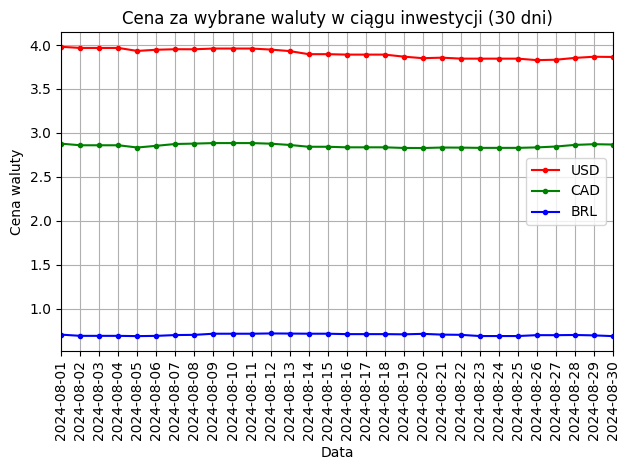
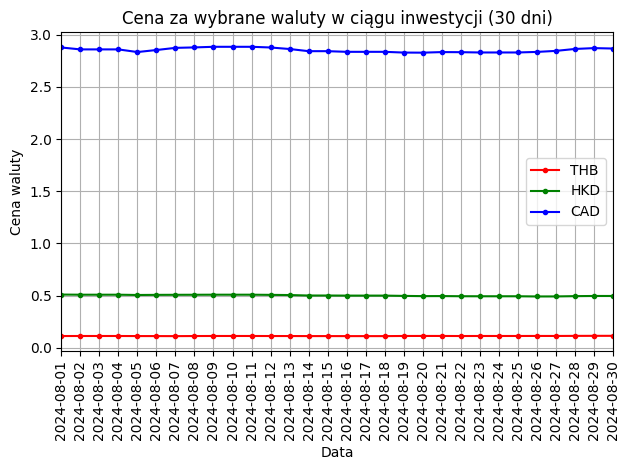
Added more charts into Investment class and informations with charts into users view.

diff --git a/templates/investmentResult.html b/templates/investmentResult.html
@@ -6,19 +6,59 @@
         <link href="https://fonts.googleapis.com/icon?family=Material+Icons" rel="stylesheet">
         <link type="text/css" rel="stylesheet" href="{{ url_for('static', filename='node_modules/materialize-css/dist/css/materialize.min.css') }}" media="screen,projection"/>
         <link rel="icon" href="{{ url_for('static', filename='favicon.ico') }}">
-        <title>Zadanie rekrutacyjne ING</title>
+        <title>inwestycja</title>
     </head>
     <body>
-        <div class="row center"></div>
-            <h2>Analiza inwestycji 1000zł w trzy waluty na 30 dni</h2>
-            <h5>wypłacona kwota w PLN po 30 dniach: {{ last_total }}</h5>
+        <div class="navbar-fixed">
+            <nav>
+                <div class="nav-wrapper">
+                    <a href="/" class="brand-logo center">Analiza inwestycji 1000zł w trzy waluty na 30 dni</a>
+                </div>
+            </nav>
         </div>
-        <div class="row">
-            <img style="width: 50%;" src="{{ url_for('static', filename='graphs/currency_rates.png')}}" alt="">
+        <div class="row center">
+            <div class="col s6 offset-s3">
+
+                <h6>1000 PLN zainwestowane w {{curr_first}} ({{percentage_first}}%), {{curr_second}} ({{percentage_second}}%), {{curr_third}} ({{percentage_third}}%) wypłacone po 30 dniach dało: {{ last_total }} PLN.
+                    <br>Bilans zysków/strat: {{ bilance }} PLN.</h6>
+                <h6>Powinieneś zakończyć inwestycję w dniu {{ best_date }}. Twój portfel byłby warty wtedy {{ highest_value }} PLN. 
+                    <br>Bilans zysków/strat byłby równy: {{ best_bilance }} PLN.</h6>
+            </div> 
         </div>
-        <div class="row">
-            <img style="width: 50%;" src="{{ url_for('static', filename='graphs/investment_in_pln.png')}}" alt="">
-        </div>
+        <h6 style="margin-left: 2%;">Wykresy:</h6>
+        <ul class="collapsible popout">
+            <li>
+                <div class="collapsible-header"><i class="material-icons">show_chart</i>Przebieg inwestycji w PLN w ciągu inwestycji (30 dni)</div>
+                <div class="collapsible-body center-align">
+                    <img style="width: 60%;" src="{{ url_for('static', filename='graphs/investment_in_pln.png')}}" alt="">                    
+                </div>
+            </li>
+            <li>
+                <div class="collapsible-header"><i class="material-icons">show_chart</i>Cena za wybrane waluty w ciągu inwestycji (30 dni)</div>
+                <div class="collapsible-body center-align">
+                    <img style="width: 60%;" src="{{ url_for('static', filename='graphs/currency_rates.png')}}" alt="">
+                </div>
+            </li>
+            <li>
+                <div class="collapsible-header"><i class="material-icons">show_chart</i>Procentowy udział walut w ciągu inwestycji (30 dni)</div>
+                <div class="collapsible-body center-align">
+                    <img style="width: 60%;" src="{{ url_for('static', filename='graphs/percentage_allocation_chart.png')}}" alt="">
+                </div>
+            </li>
+            <li>
+                <div class="collapsible-header"><i class="material-icons">pie_chart</i>Procentowy podział walut na początku inwestycji</div>
+                <div class="collapsible-body center-align">
+                    <img style="width: 60%;" src="{{ url_for('static', filename='graphs/pie_chart_start.png')}}" alt="">
+                </div>
+            </li>
+            <li>
+                <div class="collapsible-header"><i class="material-icons">pie_chart</i>Procentowy podział walut na koniec inwestycji</div>
+                <div class="collapsible-body center-align">
+                    <img style="width: 60%;" src="{{ url_for('static', filename='graphs/pie_chart_end.png')}}" alt="">
+                </div>
+            </li>
+        </ul>
+        
         
 
         <script type="text/javascript" src="{{ url_for('static', filename='js/script.js') }}"></script>

diff --git a/templates/index.html b/templates/index.html
@@ -6,12 +6,17 @@
         <link href="https://fonts.googleapis.com/icon?family=Material+Icons" rel="stylesheet">
         <link type="text/css" rel="stylesheet" href="{{ url_for('static', filename='node_modules/materialize-css/dist/css/materialize.min.css') }}" media="screen,projection"/>
         <link rel="icon" href="{{ url_for('static', filename='favicon.ico') }}">
-        <title>Zadanie rekrutacyjne ING</title>
+        <title>inewstycja</title>
     </head>
     <body>
-        <div class="row center">
-            <h2>Analiza inwestycji 1000zł w trzy waluty na 30 dni</h2>
+        <div class="navbar-fixed">
+            <nav>
+                <div class="nav-wrapper">
+                    <a href="/" class="brand-logo center">Analiza inwestycji 1000zł w trzy waluty na 30 dni</a>
+                </div>
+            </nav>
         </div>
+        <div class="row"></div>
         <form action="/analyze" method="POST" onsubmit="return validateForm()">
             <div class="row">
                 <div class="input-field col s4 offset-s3">
@@ -62,6 +67,7 @@
                 <div class="input-field col s6 offset-s3">
                     <input id="start_date" type="text" name="start_date" class="datepicker" autocomplete="off">
                     <label for="start_date">Data rozpoczęcia inwestycji</label>
+                    <span class="grey-text">Maksymalna data do wybory - miesiąc wstecz, aby wyświetlić poprawne dane</span><br>
                     <span class="grey-text">System automatycznie obliczy datę końca inwestycji (30 dni)</span>
                 </div>
             </div>

diff --git a/static/js/script.js b/static/js/script.js
@@ -1,6 +1,6 @@
 document.addEventListener('DOMContentLoaded', function() {
-    let elems = document.querySelectorAll('select');
-    M.FormSelect.init(elems);
+    let selectElems = document.querySelectorAll('select');
+    let selectInstances = M.FormSelect.init(selectElems);
     
 
     let currYear = new Date().getFullYear();
@@ -14,6 +14,12 @@ document.addEventListener('DOMContentLoaded', function() {
         maxDate: new Date(currYear, currMonth-1, currDay),
         yearRange: [2020, currYear]
     });
+
+    let imageElems = document.querySelectorAll('.materialboxed');
+    let imageInstances = M.Materialbox.init(imageElems);
+
+    let collapibleElems = document.querySelectorAll('.collapsible');
+    let collapsibleInstances = M.Collapsible.init(collapibleElems);
 });
 
 function validateForm() {

diff --git a/investment.py b/investment.py
@@ -14,6 +14,11 @@ class Investment():
         self.second_currency_dict = currency_dict.get('second')
         self.third_currency_dict = currency_dict.get('third')
         self.end_date = (datetime.strptime(self.start_date, '%Y-%m-%d') + timedelta(days=29)).strftime('%Y-%m-%d') #days=29 because start date + 29days = 30 days
+        self.graph_directory = os.path.join('static', 'graphs') #set path to graphs
+        self.value_for_first = []
+        self.value_for_second = []
+        self.value_for_third = []
+        self.total_value = []
 
     def _get_currency_rates(self):
         #first currency
@@ -52,9 +57,49 @@ class Investment():
 
         return dates, first_rate_value, second_rate_value, third_rate_value
 
-
     def analyze_investment(self):
         ...
+
+    def draw_start_pie(self, start_values):
+        currencies = list(start_values.keys())
+        values = list(start_values.values())
+        
+        self._configure_pie_chart('Procentowy podział walut na początku inwestycji', values, currencies, 'pie_chart_start.png')
+
+    def draw_end_pie(self):
+        last_total = round(self.total_value[-1], 2)
+        last_first_value = round(self.value_for_first[-1], 2)
+        last_second_value = round(self.value_for_second[-1], 2)
+        last_third_value = round(self.value_for_third[-1], 2)
+
+        first_percentage = (last_first_value / last_total) * 100
+        second_percentage = (last_second_value / last_total) * 100
+        third_percentage = (last_third_value / last_total) * 100
+
+        first_percentage = round(first_percentage, 4)
+        second_percentage = round(second_percentage, 4)
+        third_percentage = round(third_percentage, 4)
+
+        currencies = [self.first_currency_dict.get('currency'), self.second_currency_dict.get('currency'), self.third_currency_dict.get('currency')]
+        values = [first_percentage, second_percentage, third_percentage]
+
+        self._configure_pie_chart('Procentowy podział walut na koniec inwestycji', values, currencies, 'pie_chart_end.png')
+
+    def when_to_leave(self):
+        dates, _, _, _ = self._get_dates_and_mid()
+
+        best_date = None
+        highest_value = 0
+
+        for date, value in zip(dates, self.total_value):
+            if value > highest_value:
+                highest_value = value
+                best_date = date
+
+        highest_value = round(highest_value, 2)
+        best_date = best_date.strftime('%Y-%m-%d')
+
+        return highest_value, best_date
 
     def draw_investment_pln(self):
         first_percent, second_percent, third_percent = self._get_currency_percentage()
@@ -65,65 +110,42 @@ class Investment():
 
         dates, first_rate_values, second_rate_values, third_rate_values = self._get_dates_and_mid()
 
-        #print(first_rate_values[0]) #mid from first day
-
         first_bought = first_investment_value / first_rate_values[0] 
         second_bought = second_investment_value / second_rate_values[0]
         third_bought = third_investment_value / third_rate_values[0]
-
-        value_for_first = []
-        value_for_second = []
-        value_for_third = []
 
         for first_rate, second_rate, third_rate in zip(first_rate_values, second_rate_values, third_rate_values):
             first_to_pln = first_bought * first_rate
             second_to_pln = second_bought * second_rate
             third_to_pln = third_bought * third_rate
 
-            value_for_first.append(first_to_pln)
-            value_for_second.append(second_to_pln)
-            value_for_third.append(third_to_pln)
+            self.value_for_first.append(first_to_pln)
+            self.value_for_second.append(second_to_pln)
+            self.value_for_third.append(third_to_pln)
 
-        total_value = []
+        for value_first, value_second, value_third in zip(self.value_for_first, self.value_for_second, self.value_for_third):
+            self.total_value.append(value_first + value_second + value_third)
 
-        for value_first, value_second, value_third in zip(value_for_first, value_for_second, value_for_third):
-            total_value.append(value_first + value_second + value_third)
+        plt.plot(dates, self.value_for_first, marker ='.', linestyle = '-', color = 'r', label=f"{self.first_currency_dict.get('currency')} {first_percent}%")
+        plt.plot(dates, self.value_for_second, marker ='.', linestyle = '-', color = 'g', label=f"{self.second_currency_dict.get('currency')} {second_percent}%")
+        plt.plot(dates, self.value_for_third, marker ='.', linestyle = '-', color = 'b', label=f"{self.third_currency_dict.get('currency')} {third_percent}%")
 
-        plt.plot(dates, value_for_first, marker='.', linestyle='-', color='r', label=f"{self.first_currency_dict.get('currency')} {first_percent}%")
-        plt.plot(dates, value_for_second, marker='.', linestyle='-', color='g', label=f"{self.second_currency_dict.get('currency')} {second_percent}%")
-        plt.plot(dates, value_for_third, marker='.', linestyle='-', color='b', label=f"{self.third_currency_dict.get('currency')} {third_percent}%")
+        self._configure_graph('przebieg inwestycji w PLN w ciągu inwestycji (30 dni)', 'Cena waluty', dates, 'investment_in_pln.png')
 
-        self._configure_graph('przebieg inwestycji w PLN w ciągu inwestycji (30 dni)', 'Cena waluty', dates)
-
-        graph_directory = os.path.join('static', 'graphs') #set path to graphs
-        if not os.path.exists(graph_directory): #if no graph dir - make one
-            os.makedirs(graph_directory)
-
-        plt.savefig(os.path.join(graph_directory, 'investment_in_pln.png'), bbox_inches='tight')
-        plt.close()
-
-        last_total = total_value[-1]
-
+        last_total = self.total_value[-1]
+        last_total = round(last_total, 2)
         return last_total
     
-
     def draw_currency_rates(self):
         dates, first_rate_value, second_rate_value, third_rate_value = self._get_dates_and_mid()
 
-        plt.plot(dates, first_rate_value, marker='.', linestyle='-', color='r', label=self.first_currency_dict.get('currency'))
-        plt.plot(dates, second_rate_value, marker='.', linestyle='-', color='g', label=self.second_currency_dict.get('currency'))
-        plt.plot(dates, third_rate_value, marker='.', linestyle='-', color='b', label=self.third_currency_dict.get('currency'))
+        plt.plot(dates, first_rate_value, marker = '.', linestyle = '-', color = 'r', label = self.first_currency_dict.get('currency'))
+        plt.plot(dates, second_rate_value, marker = '.', linestyle = '-', color = 'g', label = self.second_currency_dict.get('currency'))
+        plt.plot(dates, third_rate_value, marker = '.', linestyle = '-', color = 'b', label = self.third_currency_dict.get('currency'))
 
-        self._configure_graph('Cena za wybrane waluty w ciągu inwestycji (30 dni)', 'Cena waluty', dates)
-
-        graph_directory = os.path.join('static', 'graphs') #set path to graphs
-        if not os.path.exists(graph_directory): #if no graph dir - make one
-            os.makedirs(graph_directory)
-
-        plt.savefig(os.path.join(graph_directory, 'currency_rates.png'), bbox_inches='tight')
-        plt.close()    
+        self._configure_graph('Cena za wybrane waluty w ciągu inwestycji (30 dni)', 'Cena waluty', dates, 'currency_rates.png')    
             
-    def _configure_graph(self, title, ylabel, dates):
+    def _configure_graph(self, title, ylabel, dates, file_name):
         plt.xlabel('Data')
         plt.ylabel(ylabel)
         plt.title(title)
@@ -135,4 +157,37 @@ class Investment():
         plt.grid(True)
         plt.tight_layout()
 
+        if not os.path.exists(self.graph_directory): #if no graph dir - make one
+            os.makedirs(self.graph_directory)
 
+        plt.savefig(os.path.join(self.graph_directory, file_name), bbox_inches='tight')
+        plt.close()
+
+    def _configure_pie_chart(self, title, values, currencies, file_name):
+        plt.figure(figsize=(7, 7))
+        plt.pie(values, labels = currencies, autopct='%1.1f%%', startangle=140)
+        plt.title(title)
+
+        if not os.path.exists(self.graph_directory): #if no graph dir - make one
+            os.makedirs(self.graph_directory)
+
+        plt.savefig(os.path.join(self.graph_directory, file_name), bbox_inches='tight')
+        plt.close()
+
+    def plot_currency_allocation_over_time(self):
+        dates, _, _, _ = self._get_dates_and_mid()
+
+        first_percentage_alloc = []
+        second_percentage_alloc = []
+        third_percentage_alloc = []
+
+        for first, second, third, total in zip(self.value_for_first, self.value_for_second, self.value_for_third, self.total_value):
+            first_percentage_alloc.append((first / total) * 100)
+            second_percentage_alloc.append((second / total) * 100)
+            third_percentage_alloc.append((third / total) * 100)
+
+        plt.plot(dates, first_percentage_alloc, marker = '.', linestyle = '-', color = 'r', label = self.first_currency_dict.get('currency'))
+        plt.plot(dates, second_percentage_alloc, marker = '.', linestyle = '-', color = 'g', label = self.second_currency_dict.get('currency'))
+        plt.plot(dates, third_percentage_alloc, marker = '.', linestyle = '-', color = 'b', label = self.third_currency_dict.get('currency'))
+
+        self._configure_graph('Procentowy udział walut w czasie', '%', dates, 'percentage_allocation_chart.png')

diff --git a/app.py b/app.py
@@ -1,6 +1,4 @@
 from flask import Flask, render_template, request
-import requests
-import math
 from nbp_api import NbpApi
 from investment import Investment
 
@@ -38,10 +36,34 @@ def analyze():
     investment = Investment(currency_dict, start_date, nbp_api)
 
     investment.draw_currency_rates()
-    last_total = round(investment.draw_investment_pln(), 2)
-    investment.draw_investment_in_currencies()
+
+    last_total = investment.draw_investment_pln()
+    bilance = last_total - 1000.0
+    bilance = round(bilance, 2)
+
+    start_values = {curr_first: percentage_first, curr_second: percentage_second, curr_third: percentage_third}
+    investment.draw_start_pie(start_values)
+
+    investment.draw_end_pie()
+    highest_value, best_date = investment.when_to_leave()
+
+    best_bilance = round((highest_value - 1000), 2)
+
+    investment.plot_currency_allocation_over_time()
     
-    return render_template('investmentResult.html', last_total = last_total)
+    
+    return render_template('investmentResult.html', 
+                           last_total = last_total, 
+                           bilance = bilance, 
+                           highest_value = highest_value, 
+                           best_date = best_date, 
+                           best_bilance = best_bilance, 
+                           curr_first = curr_first, 
+                           curr_second = curr_second, 
+                           curr_third = curr_third,
+                           percentage_first = percentage_first,
+                           percentage_second = percentage_second,
+                           percentage_third = percentage_third)
 
 if __name__ == '__main__':
     app.run(debug=True)

diff --git a/nbp_api.py b/nbp_api.py
@@ -17,7 +17,7 @@ class NbpApi:
         Make API request and clean the response
         """
         try:
-            response = requests.get(url)
+            response = requests.get(url, timeout=60)
             response.raise_for_status()
             return clean_func(response.json())
         except requests.exceptions.RequestException as e:
